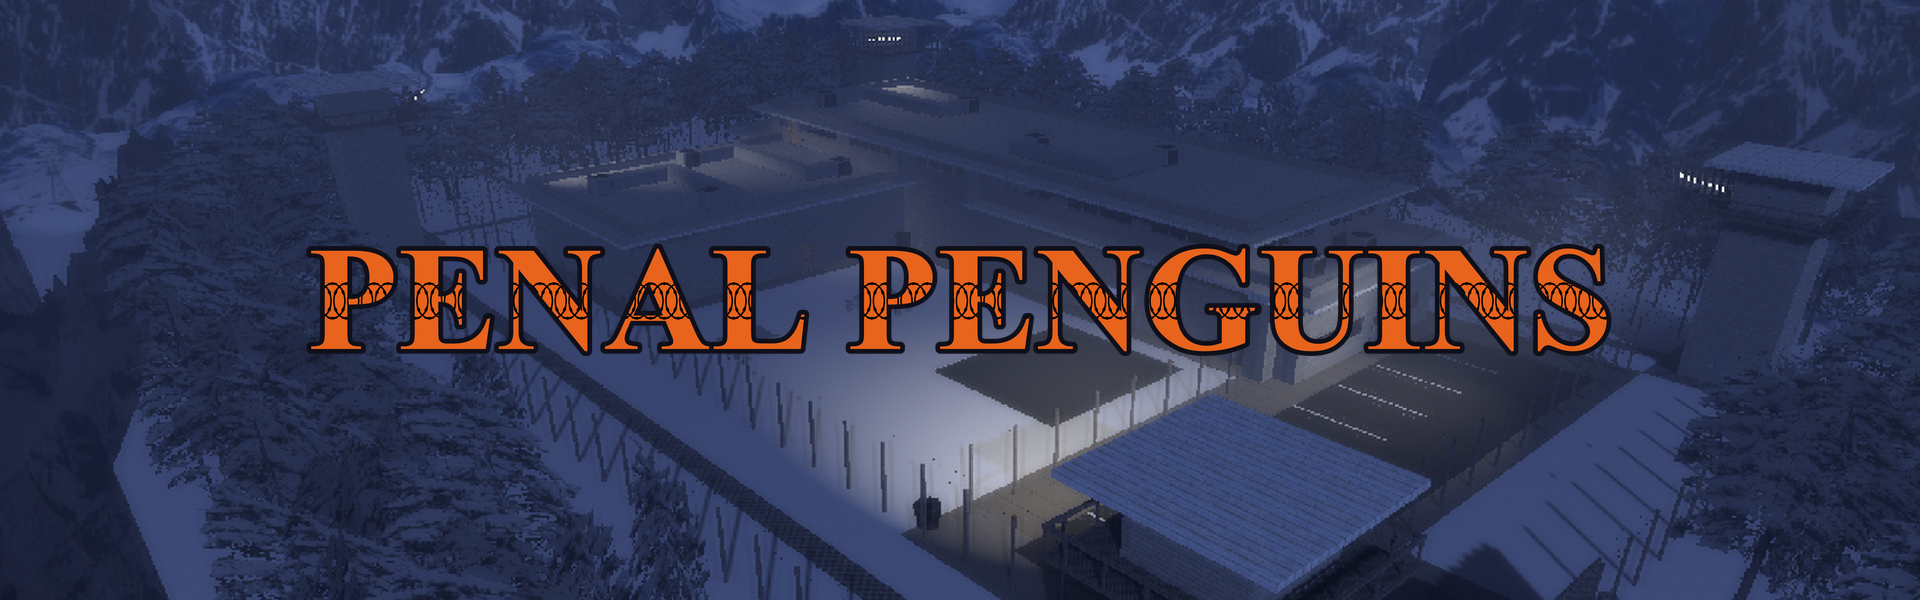
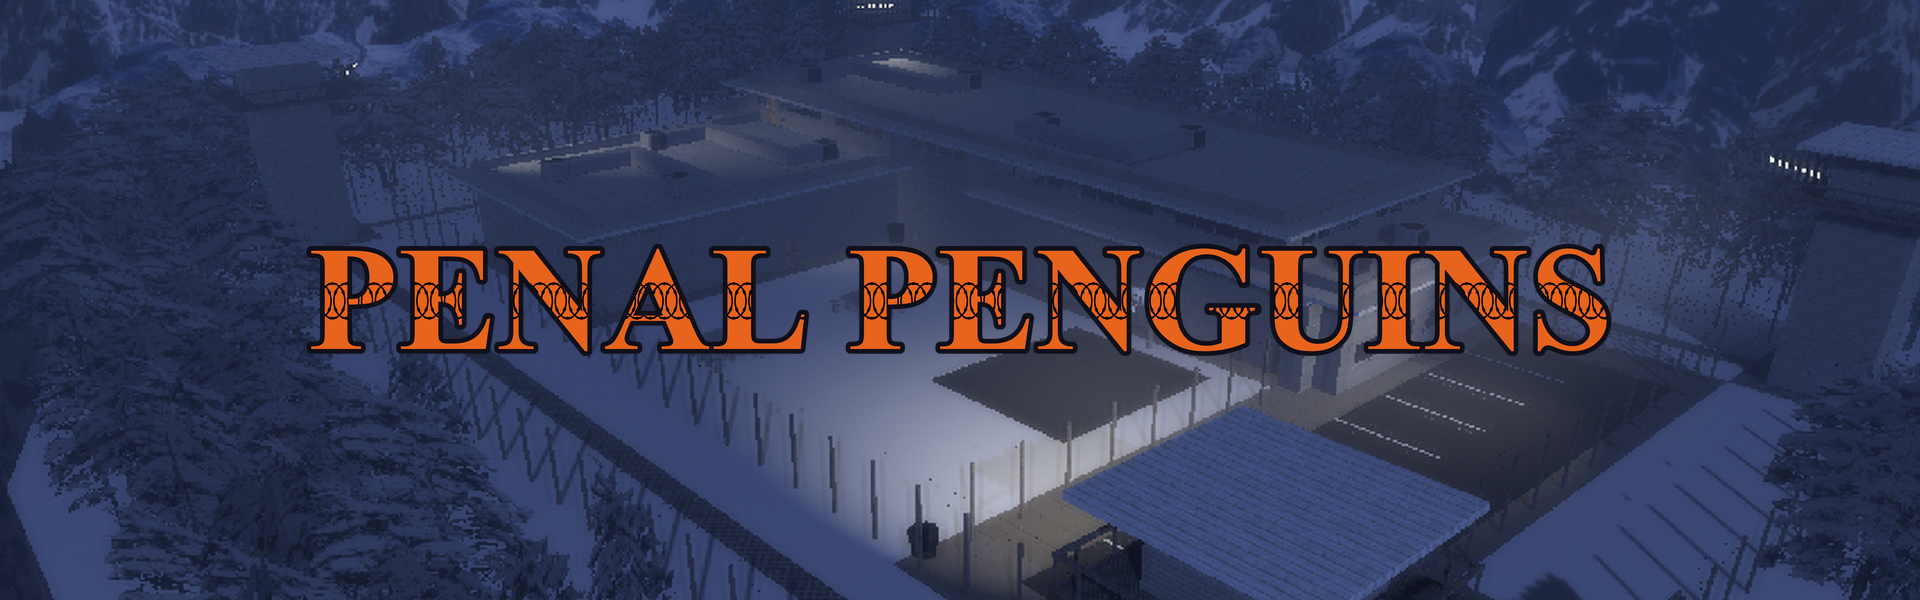
Zoom the Penal Penguins header in further

diff --git a/tools/compose_logo.py b/tools/compose_logo.py
@@ -43,7 +43,7 @@ BANNER_PATH = "data/penal-penguins/images/logo-banner.png"
 
 HEADER_SOURCE_PATH = "tools/assets/screenshots/01-prison-aerial.png"
 HEADER_SIZE = (1920, 600)
-HEADER_ZOOM = 1.2
+HEADER_ZOOM = 1.35
 # The banner logo's width as a share of the header's.
 HEADER_BANNER_WIDTH = 0.7
 HEADER_PATH = "data/penal-penguins/images/header.png"
